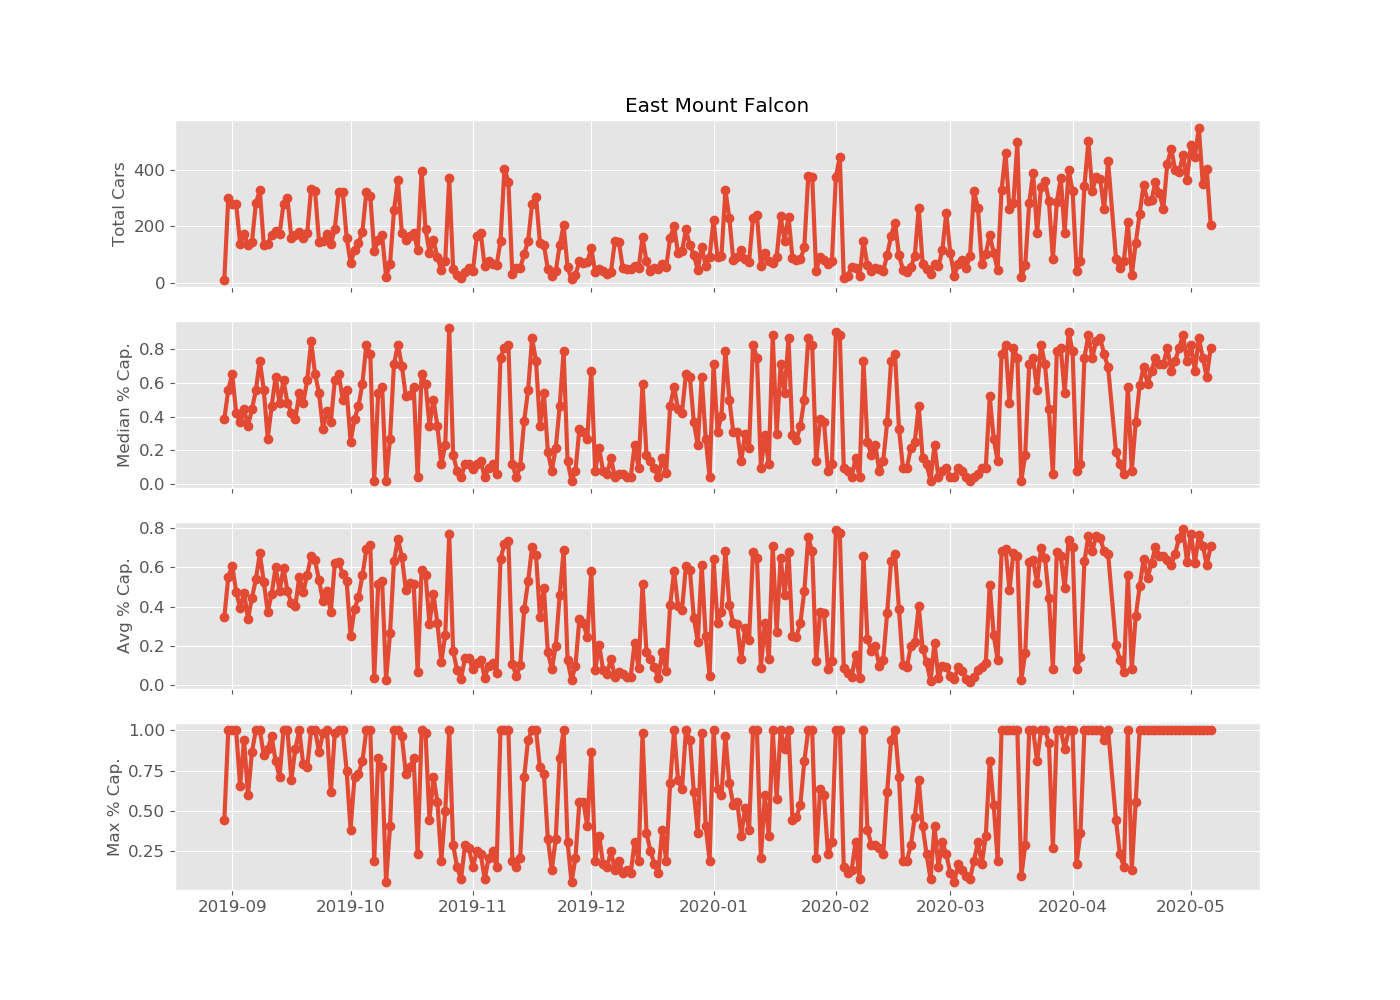
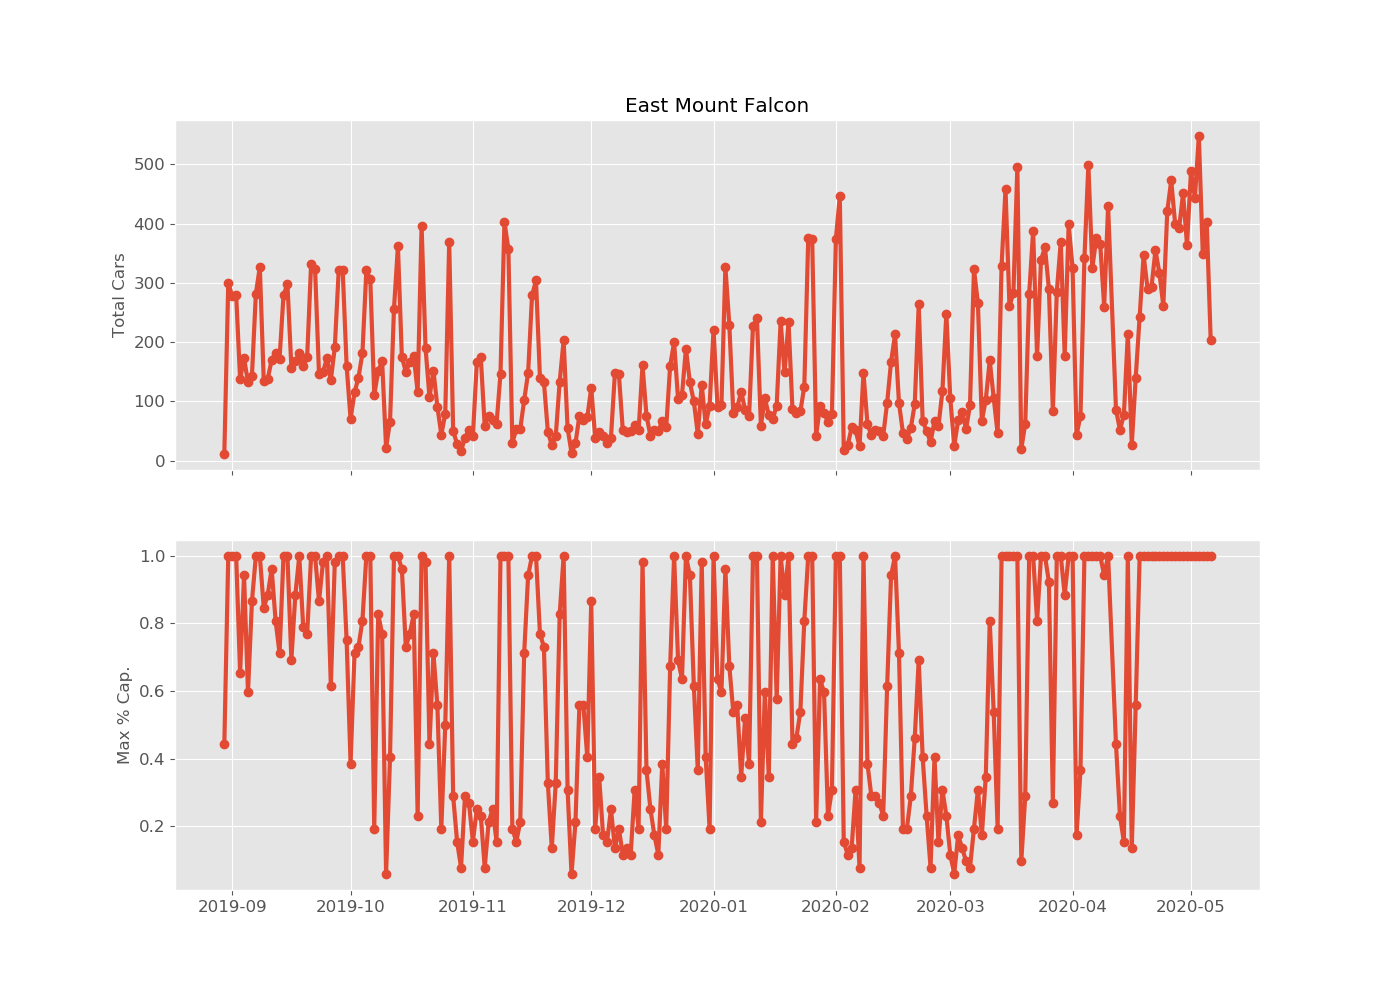
minor image changes and cleaning up scripts

diff --git a/src/modeling.py b/src/modeling.py
@@ -1,6 +1,7 @@
+# Train a random forest model to predict parking lot capacity
+
 import pandas as pd
 import numpy as np
-np.set_printoptions(suppress=True)
 np.random.seed(47)
 import matplotlib.pyplot as plt
 import seaborn as sns
@@ -8,8 +9,6 @@ import seaborn as sns
 from sklearn.model_selection import train_test_split
 from sklearn.model_selection import GridSearchCV
 from sklearn.ensemble import RandomForestRegressor
-from sklearn.ensemble import GradientBoostingRegressor
-from sklearn.ensemble import AdaBoostRegressor
 from sklearn.metrics import mean_squared_error
 from sklearn.metrics import r2_score
 from sklearn.inspection import plot_partial_dependence
@@ -22,27 +21,26 @@ plt.rcParams['ytick.labelsize'] = 'large'
 plt.rcParams['lines.linewidth'] = 3
 plt.style.use('ggplot')
 
-
 def read_process_park_data_into_hourly(park_name):
     '''
     Read in raw LotSpot data for a park and process into dataframe, **resampled to 1-hour intervals**
-    Convert timestamp to US/Mountain datetime, add various datetime fields for analysis
+    Convert timestamp to US/Mountain datetime, add various datetime fields for analysis.
 
     INPUT
     park_name (str) : Name of park to load
 
     RETURNS
-    df_hourly (Pandas Dataframe)
+    df_hourly (Pandas Dataframe), resampled to hourly intervals
     '''
     col_names = ['percent_capacity','spots_taken','total_spots','timestamp','in_out']
-    df = pd.read_csv('../data/raw_data/' + park_name + '.csv', header=None, names=col_names )
+    df = pd.read_csv('./data/raw_data/' + park_name + '.csv', header=None, names=col_names )
 
     df['datetime_utc'] = pd.to_datetime(df['timestamp'], origin='unix', unit='s', utc=True)
     df['datetime'] = df['datetime_utc'].dt.tz_convert('US/Mountain')
     df.drop(['timestamp','datetime_utc'], axis=1, inplace=True)
-    
     df.drop(['spots_taken','total_spots','in_out'], axis=1, inplace=True)
     
+    # Resample to hourly intervals
     df_hourly = df.set_index('datetime').resample('H').pad().reset_index()
     
     df_hourly['date']  = df_hourly['datetime'].dt.date
@@ -60,11 +58,11 @@ if __name__=='__main__':
     df = read_process_park_data_into_hourly(park_name)
     df['percent_capacity'] = df['percent_capacity']*100
     df = df[(df['hour']>5) & (df['hour']<20)]
-    df = df[df['datetime']<'2020-03-01']
+    df = df[df['datetime']<'2020-03-01'] # pre-Covid19 time period
     df['is_wknd'] = df['dow'].apply(lambda x: 0 if x<5 else 1)
     df['hour']=df['hour'].astype('category')
 
-    # merge weather data
+    # load and merge weather data
     wea = pd.read_pickle('./data/weather/weather_combined_wea_hourly.pkl')
     wea = wea[['time','temperature','cloudCover','precipIntensity','uvIndex']]
     df = pd.merge(df, wea, left_on='datetime', right_on='time')
@@ -78,7 +76,8 @@ if __name__=='__main__':
     # drop any rows with NaNs
     df.dropna(axis=0, how='any', inplace=True)
 
-    # Train/test split ; Note I keep entire days together
+    # Train/test split ; Note I keep entire days together per Kayla's suggestion, 
+    # since data within a certain day might be correlated
     df['date'] = df['date'].astype(str)
     uniq_dates = df['date'].unique()
     Ntrain = round(0.8*len(uniq_dates))
@@ -125,8 +124,8 @@ if __name__=='__main__':
     print(rf_best)
 
     y_hat_rf_best = rf_best.predict(X_test)
-    print('RF-Tuned Train R^2: ' + str(round(rf_best.score(X_train,y_train),2) ) )
-    print('RF-Tuned Test R^2: '  + str(round(rf_best.score(X_test,y_test),2) ) )
+    print('RF-Tuned Train R^2: '  + str(round(rf_best.score(X_train,y_train),2) ) )
+    print('RF-Tuned Test R^2: '   + str(round(rf_best.score(X_test,y_test),2) ) )
     print('RF-Tuned Test RMSE: '  + str(round(np.sqrt(mean_squared_error(y_test, y_hat_rf_best)),2) ) )
 
     # Plot Feature Importances

diff --git a/src/generate_figures_EDA.py b/src/generate_figures_EDA.py
@@ -78,7 +78,7 @@ def agg_lotspot_daily(df):
     Aggregate raw LotSpot data by date. Compute total # cars, and median/avg/max % capacity
 
     INPUT
-    df
+    df (Pandas Dataframe) : Dataframe of raw LotSpot data
 
     RETURNS
     df_gb_day
@@ -98,20 +98,14 @@ if __name__=='__main__':
     df = read_process_park_data(park_name)
     df_gb_day = agg_lotspot_daily(df)
         
-    fig,ax = plt.subplots(4,figsize=(14,10), sharex=True)
+    fig,ax = plt.subplots(2,figsize=(14,10), sharex=True)
 
     ax[0].plot(df_gb_day['date'], df_gb_day['total_cars'],'o-')
     ax[0].set_ylabel('Total Cars')
     ax[0].set_title(park_name_plot)
 
-    ax[1].plot(df_gb_day['date'], df_gb_day['med_pc'],'o-')
-    ax[1].set_ylabel('Median % Cap.')
-
-    ax[2].plot(df_gb_day['date'], df_gb_day['avg_pc'],'o-')
-    ax[2].set_ylabel('Avg % Cap.')
-
-    ax[3].plot(df_gb_day['date'], df_gb_day['max_pc'],'o-')
-    ax[3].set_ylabel('Max % Cap.')
+    ax[1].plot(df_gb_day['date'], df_gb_day['max_pc'],'o-')
+    ax[1].set_ylabel('Max % Cap.')
 
     plt.savefig('./images/' + park_name + '_Daily_TS.png')
     
@@ -157,6 +151,7 @@ if __name__=='__main__':
     ax[5].plot(dfh['datetime'].values, dfh['windGust'],'.')
     ax[5].set_ylabel('Wind Gust')
     plt.savefig('./images/' + park_name + '_PerCap_weather_TS.png')
+
 
     fig,ax = plt.subplots(nrows=2, ncols=2, figsize=(14,10), sharey=True)
     sns.regplot(dfh['temperature'], dfh['percent_capacity'], robust=True, ci=None, scatter_kws={"alpha": 0.2}, ax = ax.flatten()[0])

diff --git a/src/get_darksky_weather.py b/src/get_darksky_weather.py
@@ -1,3 +1,6 @@
+# Get weather data from Dark Sky API
+# Saves a hourly and daily DataFrame for each day
+
 import os
 import pandas as pd
 import requests
@@ -47,7 +50,7 @@ if __name__=='__main__':
 
     day_vec = pd.date_range(start='8/30/2019', end='5/6/2020').to_pydatetime().tolist()
     for i in range(len(day_vec)):
-        time = time = str(day_vec[i])[0:10] + 'T00:00:00'
+        time = str(day_vec[i])[0:10] + 'T00:00:00'
         df_daily, df_hourly = get_darksky_historical(api_key, lat = 39.646865, lon = -105.196314, time = time)
         df_daily.to_pickle('./data/weather/wea_daily_' + str(day_vec[i])[0:10] + '.pkl')
         df_hourly.to_pickle('./data/weather/wea_hourly_' + str(day_vec[i])[0:10] + '.pkl')

diff --git a/src/combine_weather.py b/src/combine_weather.py
@@ -1,6 +1,7 @@
+# Combine weather dataframes for each day (made w/ get_darksky_weather.py) into single combined dataframe
+
 import os
 import pandas as pd
-
 
 if __name__=='__main__':
 
